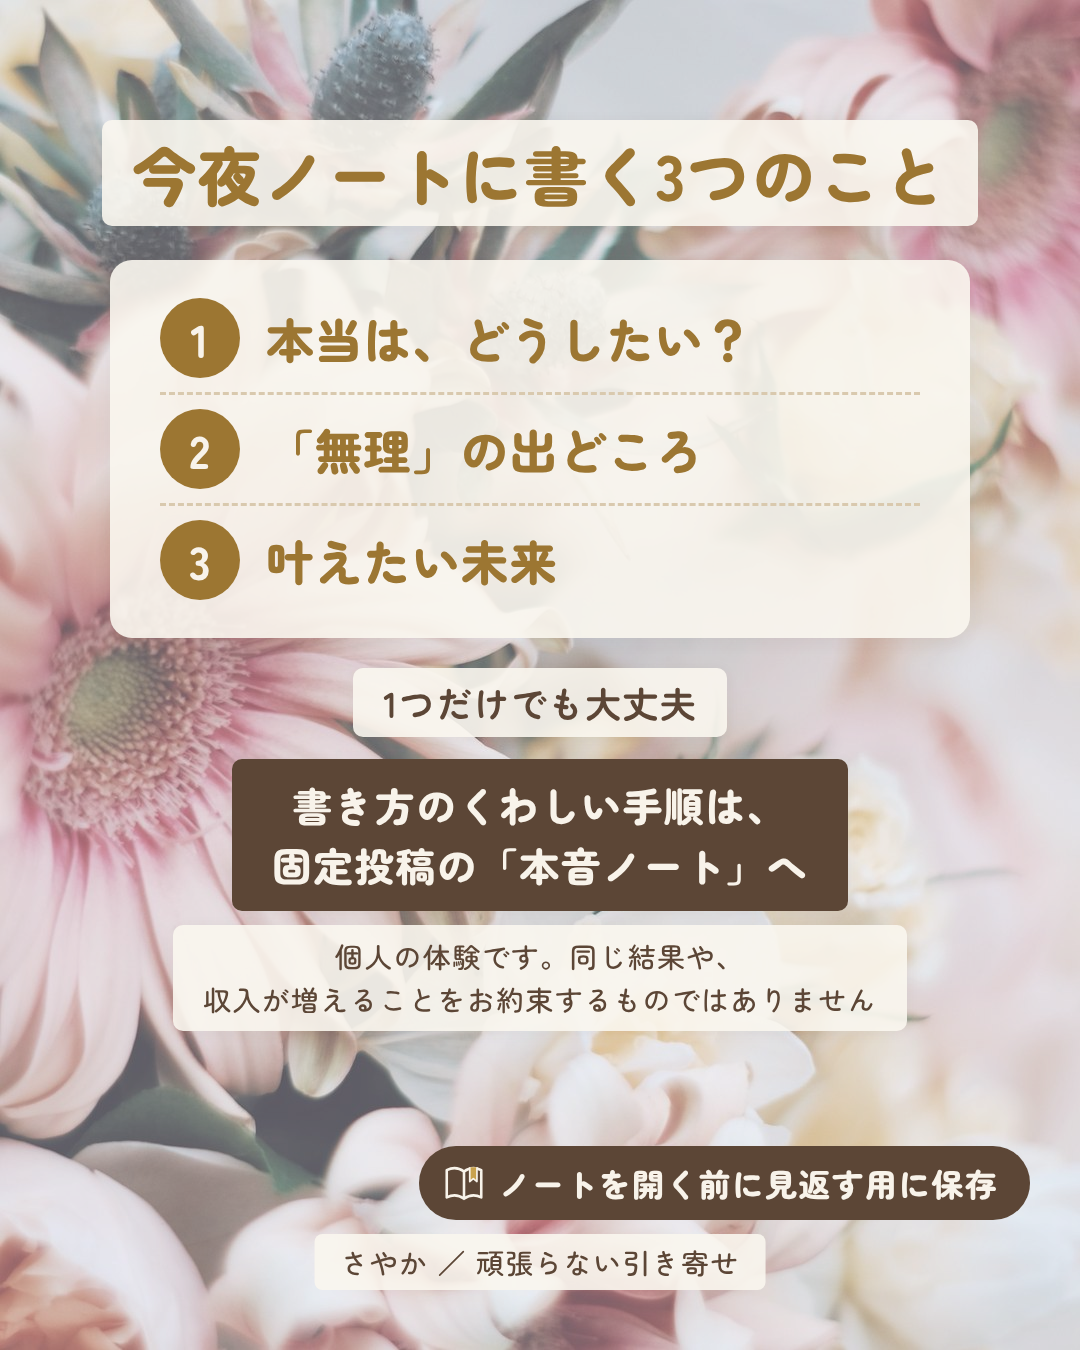
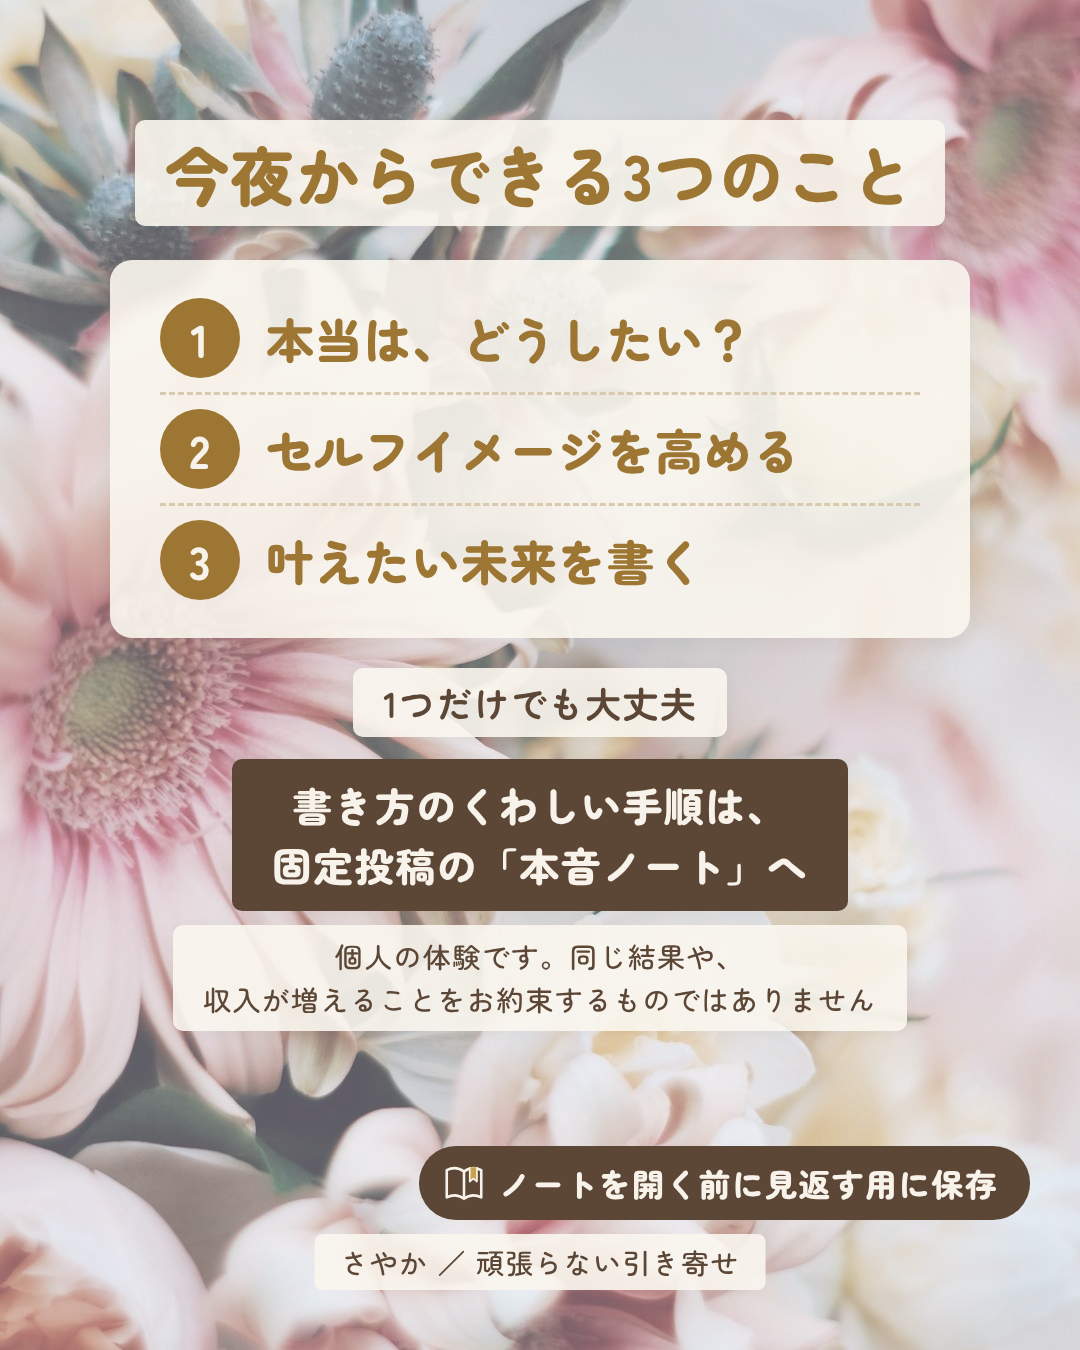
Replace step 2 with raising self-image in fifth carousel
Claude-Session: https://claude.ai/code/session_01YUXq2WjFGxvpb1f5f2asyh

Changed region(s): [[0.0917, 0.0933, 0.9167, 0.1867], [0.2444, 0.3111, 0.7333, 0.3733], [0.5194, 0.4044, 0.6417, 0.4356]]

diff --git a/carousel/hasegawa_post05/slides.html b/carousel/hasegawa_post05/slides.html
@@ -117,7 +117,7 @@
 
 <section class="slide" data-bg="plain">
   <div class="stack" style="top:150px;">
-    <div class="no">書いたこと①</div>
+    <div class="no">やったこと①</div>
     <div class="pill g" style="font-size:80px; padding:12px 44px;">本当は、どうしたい？</div>
   </div>
   <div class="abs card" style="top:500px; left:70px; right:70px; text-align:center; font-size:42px; line-height:1.75;">
@@ -128,18 +128,18 @@
 
 <section class="slide" data-bg="plain">
   <div class="stack" style="top:150px;">
-    <div class="no">書いたこと②</div>
-    <div class="pill g" style="font-size:80px; padding:12px 44px;">「無理」の出どころ</div>
+    <div class="no">やったこと②</div>
+    <div class="pill g" style="font-size:72px; padding:12px 44px;">セルフイメージを高める</div>
   </div>
   <div class="abs card" style="top:500px; left:70px; right:70px; text-align:center; font-size:42px; line-height:1.75;">
-    「いつから、無理だと思っている？」<br>「誰の言葉？」と、<br>自分に聞いて書く。
-    <div style="width:120px; height:6px; background:#C9A24D; border-radius:3px; margin:30px auto;"></div><div class="g" style="font-size:46px;">その「無理」は、<br>今の私に必要？</div>
+    「無理」の理由を探すのをやめて、<br>すでに、なりたい自分に<br>なっている状態で過ごす。<br>今の現実は、いったん横に置く。
+    <div style="width:120px; height:6px; background:#C9A24D; border-radius:3px; margin:30px auto;"></div><div class="g" style="font-size:50px;">根拠のない自信で、いい</div>
   </div>
 </section>
 
 <section class="slide" data-bg="plain">
   <div class="stack" style="top:150px;">
-    <div class="no">書いたこと③</div>
+    <div class="no">やったこと③</div>
     <div class="pill g" style="font-size:80px; padding:12px 44px;">叶えたい未来</div>
   </div>
   <div class="abs card" style="top:500px; left:70px; right:70px; text-align:center; font-size:42px; line-height:1.75;">
@@ -158,7 +158,7 @@
 <!-- 8P まとめ -->
 <section class="slide has-save" data-bg="morning">
   <div class="stack" style="top:120px;">
-    <div class="pill g" style="font-size:64px;">今夜ノートに書く3つのこと</div>
+    <div class="pill g" style="font-size:64px;">今夜からできる3つのこと</div>
   </div>
   <div class="abs card" style="top:260px; left:110px; right:110px; padding:24px 50px;" id="three"></div>
   <div class="stack" style="top:668px; gap:14px;">
@@ -202,7 +202,7 @@
     s.insertAdjacentHTML('beforeend', '<div class="brand">さやか ／ 頑張らない引き寄せ</div>');
   });
 
-  const three = ['本当は、どうしたい？', '「無理」の出どころ', '叶えたい未来'];
+  const three = ['本当は、どうしたい？', 'セルフイメージを高める', '叶えたい未来を書く'];
   document.getElementById('three').innerHTML = three.map((t, i) => `
     <div style="display:flex; align-items:center; gap:26px; padding:14px 0; ${i < 2 ? 'border-bottom:3px dashed #D9C9AE;' : ''}">
       <div style="flex:none; width:80px; height:80px; border-radius:50%; background:var(--gold); color:var(--cream); font-size:46px; font-weight:900; display:flex; align-items:center; justify-content:center; line-height:1;">${i + 1}</div>

diff --git a/hasegawa_instagram_post05_kigyou_note.md b/hasegawa_instagram_post05_kigyou_note.md
@@ -43,11 +43,11 @@
 | 1P | 表紙 | 起業できたのは、ノートに書いたから | なし |
 | 2P | 以前の私 | 「私には無理」が口ぐせだった | なし |
 | 3P | 転機 | 頭の中で「無理」と思うだけだった | なし |
-| 4P | 書いたこと① | 本当は、どうしたい？ | なし |
-| 5P | 書いたこと② | 「無理」の出どころ | なし |
-| 6P | 書いたこと③ | 叶えたい未来 | なし |
+| 4P | やったこと① | 本当は、どうしたい？ | なし |
+| 5P | やったこと② | セルフイメージを高める | なし |
+| 6P | やったこと③ | 叶えたい未来 | なし |
 | 7P | その後 | 人と話すのが苦手だった私が | なし |
-| 8P | まとめ＋CTA | 今夜ノートに書く3つのこと | ノートを開く前に見返す用に保存 |
+| 8P | まとめ＋CTA | 今夜からできる3つのこと | ノートを開く前に見返す用に保存 |
 
 保存CTAの文言は、4本目「お金の不安が出たら見返す用に保存」から変える（1本ごとに1つだけ変えて比べる）。
 
@@ -72,20 +72,21 @@
 - 本文：考えるだけだと、「無理」の理由ばかりが浮かぶ。
 - 強調（金）：だから、ノートに書き始めた
 
-### 4P（書いたこと①）
-- 印：書いたこと①
+### 4P（やったこと①）
+- 印：やったこと①
 - 見出し：本当は、どうしたい？
 - 本文：「無理」を横に置いて、本当はどうしたいかを、そのままの言葉で書く。
 - 例（囲み）：「本当は、人の話を聴く仕事がしたい」（※仮の例。本人の言葉に直す）
 
-### 5P（書いたこと②）
-- 印：書いたこと②
-- 見出し：「無理」の出どころ
-- 本文：「いつから、無理だと思っている？」「誰の言葉？」と、自分に聞いて書く。
-- 強調（金）：その「無理」は、今の私に必要？
+### 5P（やったこと②）
+- 印：やったこと②
+- 見出し：セルフイメージを高める
+- 本文：「無理」の理由を探すのをやめて、すでに、なりたい自分になっている状態で過ごす。今の現実は、いったん横に置く。
+- 強調（金）：根拠のない自信で、いい
+- 出典：本人の言葉（2026-11-01）「無理の出どころはキャンセルにして、セルフイメージを高めた。すでになっている状態でいた。現実を無視して根拠のない自信」。「現実を無視して」は、お金や生活の判断まで無視するように読まれないよう「今の現実は、いったん横に置く」とした
 
-### 6P（書いたこと③）
-- 印：書いたこと③
+### 6P（やったこと③）
+- 印：やったこと③
 - 見出し：叶えたい未来
 - 本文：叶えたい未来を、今そうなっているように「〜している」と書く（本人の書き方：過去形ではなく現在進行形・2026-11-01確認）
 - 例（囲み）：「自分のサロンで、お客様の話を聴いている」（※仮の例。本人の言葉に直す）
@@ -97,11 +98,11 @@
 - 注記：個人の体験です。同じ結果や、収入が増えることをお約束するものではありません
 
 ### 8P（まとめ＋CTA）
-- 見出し：今夜ノートに書く3つのこと
+- 見出し：今夜からできる3つのこと
 - 一覧（囲み・番号つき）：
   1. 本当は、どうしたい？
-  2. 「無理」の出どころ
-  3. 叶えたい未来
+  2. セルフイメージを高める
+  3. 叶えたい未来を書く
 - 注記：1つだけでも大丈夫
 - CTA：書き方のくわしい手順は、固定投稿の「本音ノート」へ
 - 注記：個人の体験です。同じ結果や、収入が増えることをお約束するものではありません
@@ -125,8 +126,10 @@
 ① 本当は、どうしたい？
 「無理」を横に置いて、そのままの言葉で書く。
 
-② 「無理」の出どころ
-「いつから？誰の言葉？」と自分に聞いて書く。
+② セルフイメージを高める
+「無理」の理由を探すのをやめて、
+すでになりたい自分になっている状態で過ごす。
+今の現実はいったん横に置いて、根拠のない自信でいい。
 
 ③ 叶えたい未来
 今そうなっているように「〜している」と書く。
@@ -165,6 +168,6 @@
 
 - [x] 表紙の案 → A に決定（2026-11-01）
 - [ ] 4・6Pの例文（実際にノートに書いた言葉があれば、それに差し替える）
-- [ ] 実際にノートに書いた順番・中身が「本音→無理の出どころ→叶えたい未来」で合っているか（違う場合は本人の書き方に合わせて組み直す）
+- [x] 順番と中身 → 「本音→セルフイメージを高める→叶えたい未来（現在進行形）」に決定（2026-11-01）
 - [ ] 7Pの「サロンのカウンセラーになり、起業」の順番と言い方
 - [ ] 背景写真（第5章）
